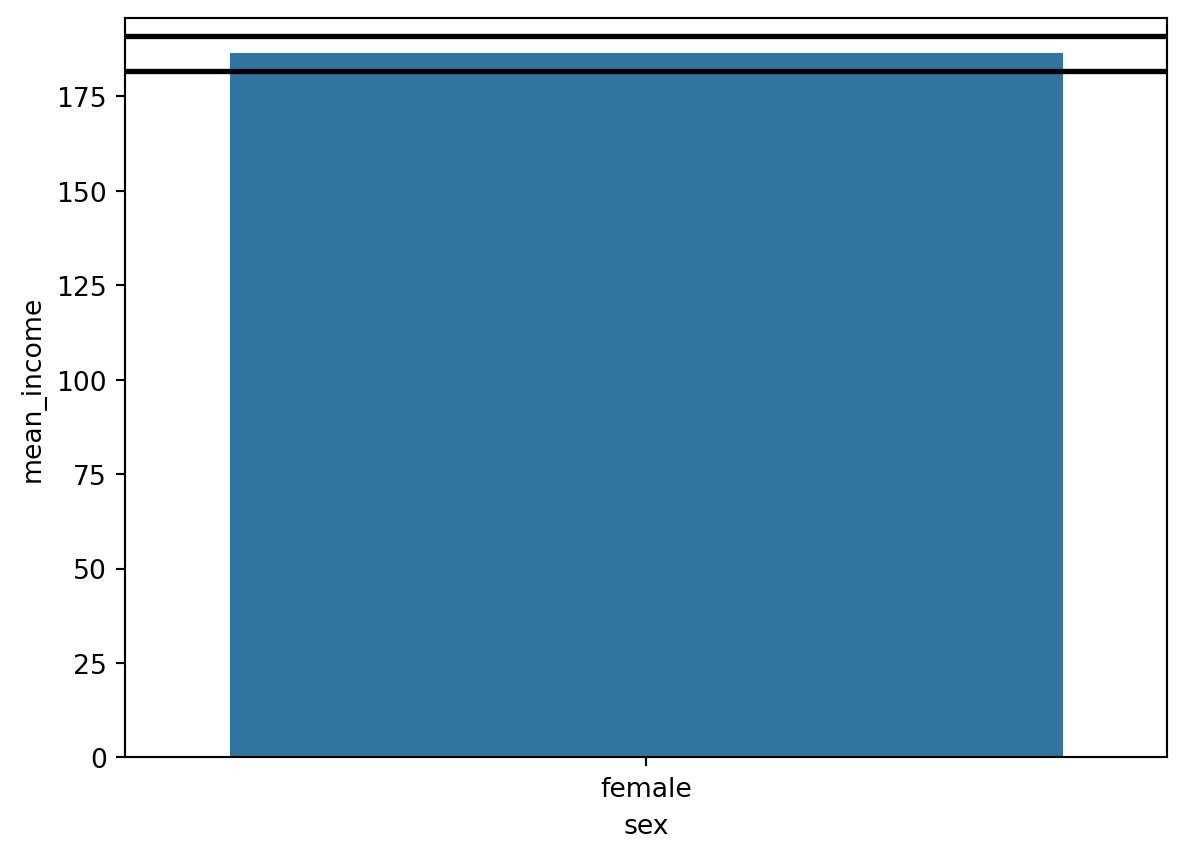
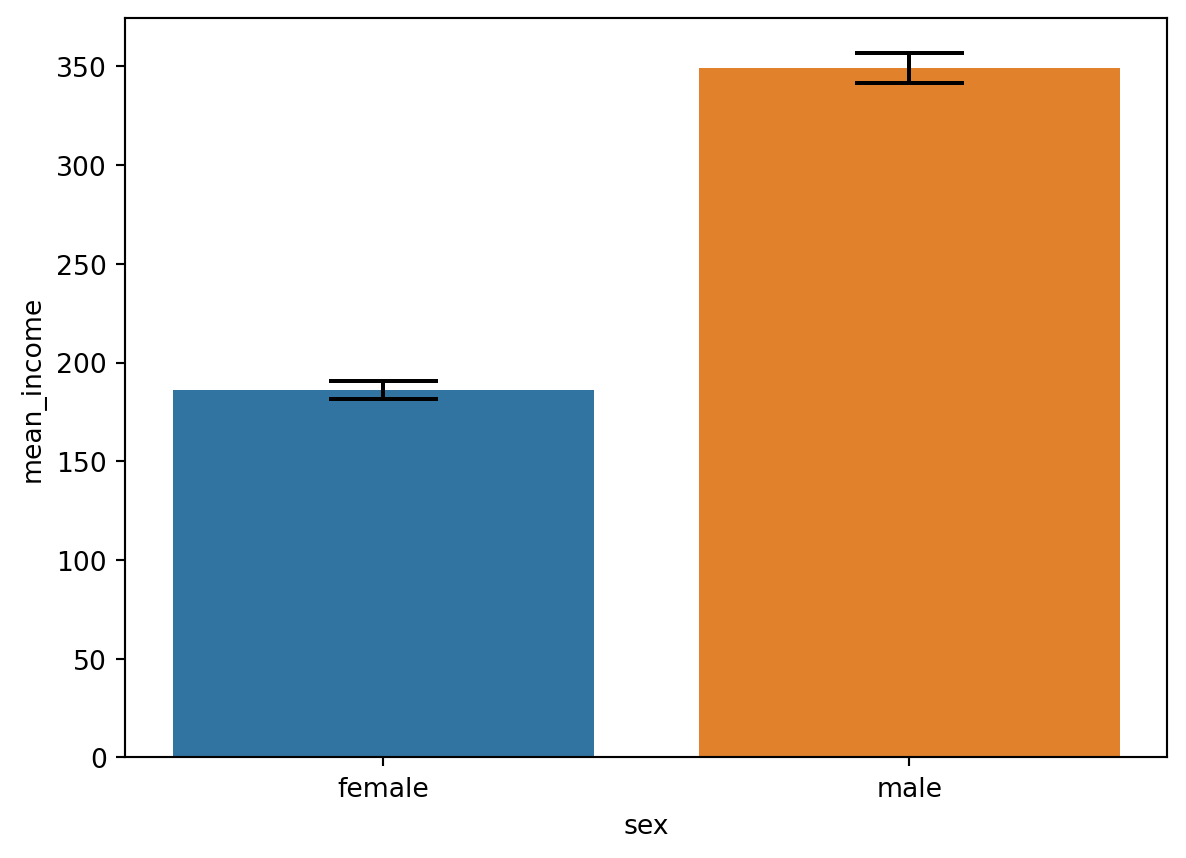
HW6 last

diff --git a/docs/posts/HW6/index.html b/docs/posts/HW6/index.html
@@ -171,7 +171,7 @@ pre > code.sourceCode > span > a:first-child::before { text-decoration: underlin
 
 
 
-<div id="aea0d10e" class="cell" data-execution_count="1">
+<div id="2ce585d9" class="cell" data-execution_count="1">
 <div class="sourceCode cell-code" id="cb1"><pre class="sourceCode python code-with-copy"><code class="sourceCode python"><span id="cb1-1"><a href="#cb1-1" aria-hidden="true" tabindex="-1"></a><span class="im">import</span> pandas <span class="im">as</span> pd</span>
 <span id="cb1-2"><a href="#cb1-2" aria-hidden="true" tabindex="-1"></a><span class="im">import</span> numpy <span class="im">as</span> np</span>
 <span id="cb1-3"><a href="#cb1-3" aria-hidden="true" tabindex="-1"></a><span class="im">import</span> seaborn <span class="im">as</span> sns</span>
@@ -247,7 +247,7 @@ pre > code.sourceCode > span > a:first-child::before { text-decoration: underlin
 </div>
 </div>
 <p>##여자 신뢰구간 검은색 남자 신뢰구간 갈색</p>
-<div id="3f93b2f2" class="cell" data-execution_count="2">
+<div id="c17b5c12" class="cell" data-execution_count="2">
 <div class="sourceCode cell-code" id="cb3"><pre class="sourceCode python code-with-copy"><code class="sourceCode python"><span id="cb3-1"><a href="#cb3-1" aria-hidden="true" tabindex="-1"></a><span class="co">#전체 그래프 그리기</span></span>
 <span id="cb3-2"><a href="#cb3-2" aria-hidden="true" tabindex="-1"></a>welfare.dropna(subset<span class="op">=</span><span class="st">"income"</span>).shape</span>
 <span id="cb3-3"><a href="#cb3-3" aria-hidden="true" tabindex="-1"></a>sex_income<span class="op">=</span>welfare.dropna(subset<span class="op">=</span><span class="st">"income"</span>) <span class="op">\</span></span>
@@ -271,20 +271,22 @@ pre > code.sourceCode > span > a:first-child::before { text-decoration: underlin
 <pre><code>&lt;Figure size 672x480 with 0 Axes&gt;</code></pre>
 </div>
 </div>
-<p>##신뢰구간 선이 겹쳐서 나오는 문제가 발생 남자 여자 그래프 따로 그려서 보여주기</p>
-<div id="91e4e15b" class="cell" data-execution_count="3">
-<div class="sourceCode cell-code" id="cb5"><pre class="sourceCode python code-with-copy"><code class="sourceCode python"><span id="cb5-1"><a href="#cb5-1" aria-hidden="true" tabindex="-1"></a><span class="co">#그리기용 데이터 프레임만들기</span></span>
-<span id="cb5-2"><a href="#cb5-2" aria-hidden="true" tabindex="-1"></a>fe_draw<span class="op">=</span>pd.DataFrame({<span class="st">'sex'</span> :[<span class="st">"female"</span>],</span>
-<span id="cb5-3"><a href="#cb5-3" aria-hidden="true" tabindex="-1"></a>                   <span class="st">'mean_income'</span> : [fe_mean]   })</span>
-<span id="cb5-4"><a href="#cb5-4" aria-hidden="true" tabindex="-1"></a>me_draw<span class="op">=</span>pd.DataFrame({<span class="st">'sex'</span> :[<span class="st">"male"</span>],</span>
-<span id="cb5-5"><a href="#cb5-5" aria-hidden="true" tabindex="-1"></a>                   <span class="st">'mean_income'</span> : [me_mean]   })</span>
-<span id="cb5-6"><a href="#cb5-6" aria-hidden="true" tabindex="-1"></a><span class="co">#그래프 따로 그리기</span></span>
-<span id="cb5-7"><a href="#cb5-7" aria-hidden="true" tabindex="-1"></a><span class="co">#여자 그래프</span></span>
-<span id="cb5-8"><a href="#cb5-8" aria-hidden="true" tabindex="-1"></a>sns.barplot(data<span class="op">=</span>fe_draw,x<span class="op">=</span><span class="st">"sex"</span>,y<span class="op">=</span><span class="st">"mean_income"</span>, hue<span class="op">=</span><span class="st">"sex"</span>)</span>
-<span id="cb5-9"><a href="#cb5-9" aria-hidden="true" tabindex="-1"></a>plt.axhline(y <span class="op">=</span> female_a, color <span class="op">=</span> <span class="st">'black'</span>, linestyle <span class="op">=</span> <span class="st">'-'</span>, linewidth <span class="op">=</span> <span class="dv">2</span>)</span>
-<span id="cb5-10"><a href="#cb5-10" aria-hidden="true" tabindex="-1"></a>plt.axhline(y <span class="op">=</span> female_b, color <span class="op">=</span> <span class="st">'black'</span>, linestyle <span class="op">=</span> <span class="st">'-'</span>, linewidth <span class="op">=</span> <span class="dv">2</span>)</span>
-<span id="cb5-11"><a href="#cb5-11" aria-hidden="true" tabindex="-1"></a>plt.show()</span>
-<span id="cb5-12"><a href="#cb5-12" aria-hidden="true" tabindex="-1"></a>plt.clf()</span></code><button title="Copy to Clipboard" class="code-copy-button"><i class="bi"></i></button></pre></div>
+<div id="f1476b13" class="cell" data-execution_count="3">
+<div class="sourceCode cell-code" id="cb5"><pre class="sourceCode python code-with-copy"><code class="sourceCode python"><span id="cb5-1"><a href="#cb5-1" aria-hidden="true" tabindex="-1"></a>welfare.dropna(subset<span class="op">=</span><span class="st">"income"</span>).shape</span>
+<span id="cb5-2"><a href="#cb5-2" aria-hidden="true" tabindex="-1"></a>sex_income<span class="op">=</span>welfare.dropna(subset<span class="op">=</span><span class="st">"income"</span>) <span class="op">\</span></span>
+<span id="cb5-3"><a href="#cb5-3" aria-hidden="true" tabindex="-1"></a>       .groupby(<span class="st">"sex"</span>,as_index<span class="op">=</span><span class="va">False</span>) <span class="op">\</span></span>
+<span id="cb5-4"><a href="#cb5-4" aria-hidden="true" tabindex="-1"></a>       .agg(mean_income <span class="op">=</span> (<span class="st">"income"</span>,<span class="st">"mean"</span>))</span>
+<span id="cb5-5"><a href="#cb5-5" aria-hidden="true" tabindex="-1"></a>sns.barplot(data<span class="op">=</span>sex_income,x<span class="op">=</span><span class="st">"sex"</span>,y<span class="op">=</span><span class="st">"mean_income"</span>, hue<span class="op">=</span><span class="st">"sex"</span>)</span>
+<span id="cb5-6"><a href="#cb5-6" aria-hidden="true" tabindex="-1"></a>plt.plot([<span class="op">-</span><span class="fl">0.1</span>, <span class="fl">0.1</span>], [female_a, female_a], color<span class="op">=</span><span class="st">'black'</span>)</span>
+<span id="cb5-7"><a href="#cb5-7" aria-hidden="true" tabindex="-1"></a>plt.plot([<span class="op">-</span><span class="fl">0.1</span>, <span class="fl">0.1</span>], [female_b, female_b], color<span class="op">=</span><span class="st">'black'</span>)</span>
+<span id="cb5-8"><a href="#cb5-8" aria-hidden="true" tabindex="-1"></a></span>
+<span id="cb5-9"><a href="#cb5-9" aria-hidden="true" tabindex="-1"></a>plt.plot([<span class="dv">0</span>, <span class="dv">0</span>], [female_a, female_b], color<span class="op">=</span><span class="st">'black'</span>)</span>
+<span id="cb5-10"><a href="#cb5-10" aria-hidden="true" tabindex="-1"></a>plt.plot([<span class="dv">1</span>, <span class="dv">1</span>], [male_a, male_b], color<span class="op">=</span><span class="st">'black'</span>)</span>
+<span id="cb5-11"><a href="#cb5-11" aria-hidden="true" tabindex="-1"></a></span>
+<span id="cb5-12"><a href="#cb5-12" aria-hidden="true" tabindex="-1"></a>plt.plot([<span class="fl">0.9</span>, <span class="fl">1.1</span>], [male_a, male_a], color<span class="op">=</span><span class="st">'black'</span>)</span>
+<span id="cb5-13"><a href="#cb5-13" aria-hidden="true" tabindex="-1"></a>plt.plot([<span class="fl">0.9</span>, <span class="fl">1.1</span>], [male_b, male_b], color<span class="op">=</span><span class="st">'black'</span>)</span>
+<span id="cb5-14"><a href="#cb5-14" aria-hidden="true" tabindex="-1"></a>plt.show()</span>
+<span id="cb5-15"><a href="#cb5-15" aria-hidden="true" tabindex="-1"></a>plt.clf()</span></code><button title="Copy to Clipboard" class="code-copy-button"><i class="bi"></i></button></pre></div>
 <div class="cell-output cell-output-display">
 <div>
 <figure class="figure">
@@ -296,17 +298,42 @@ pre > code.sourceCode > span > a:first-child::before { text-decoration: underlin
 <pre><code>&lt;Figure size 672x480 with 0 Axes&gt;</code></pre>
 </div>
 </div>
-<div id="edce843f" class="cell" data-execution_count="4">
-<div class="sourceCode cell-code" id="cb7"><pre class="sourceCode python code-with-copy"><code class="sourceCode python"><span id="cb7-1"><a href="#cb7-1" aria-hidden="true" tabindex="-1"></a><span class="co">#남자 그래프</span></span>
-<span id="cb7-2"><a href="#cb7-2" aria-hidden="true" tabindex="-1"></a>sns.barplot(data<span class="op">=</span>me_draw,x<span class="op">=</span><span class="st">"sex"</span>,y<span class="op">=</span><span class="st">"mean_income"</span>, hue<span class="op">=</span><span class="st">"sex"</span>)</span>
-<span id="cb7-3"><a href="#cb7-3" aria-hidden="true" tabindex="-1"></a>plt.axhline(y <span class="op">=</span> male_a, color <span class="op">=</span> <span class="st">'black'</span>, linestyle <span class="op">=</span> <span class="st">'-'</span>, linewidth <span class="op">=</span> <span class="dv">2</span>)</span>
-<span id="cb7-4"><a href="#cb7-4" aria-hidden="true" tabindex="-1"></a>plt.axhline(y <span class="op">=</span> male_b, color <span class="op">=</span> <span class="st">'black'</span>, linestyle <span class="op">=</span> <span class="st">'-'</span>, linewidth <span class="op">=</span> <span class="dv">2</span>)</span>
-<span id="cb7-5"><a href="#cb7-5" aria-hidden="true" tabindex="-1"></a>plt.show()</span>
-<span id="cb7-6"><a href="#cb7-6" aria-hidden="true" tabindex="-1"></a>plt.clf()</span></code><button title="Copy to Clipboard" class="code-copy-button"><i class="bi"></i></button></pre></div>
+<p>##신뢰구간 선이 겹쳐서 나오는 문제가 발생 남자 여자 그래프 따로 그려서 보여주기</p>
+<div id="ff927f72" class="cell" data-execution_count="4">
+<div class="sourceCode cell-code" id="cb7"><pre class="sourceCode python code-with-copy"><code class="sourceCode python"><span id="cb7-1"><a href="#cb7-1" aria-hidden="true" tabindex="-1"></a><span class="co">#그리기용 데이터 프레임만들기</span></span>
+<span id="cb7-2"><a href="#cb7-2" aria-hidden="true" tabindex="-1"></a>fe_draw<span class="op">=</span>pd.DataFrame({<span class="st">'sex'</span> :[<span class="st">"female"</span>],</span>
+<span id="cb7-3"><a href="#cb7-3" aria-hidden="true" tabindex="-1"></a>                   <span class="st">'mean_income'</span> : [fe_mean]   })</span>
+<span id="cb7-4"><a href="#cb7-4" aria-hidden="true" tabindex="-1"></a>me_draw<span class="op">=</span>pd.DataFrame({<span class="st">'sex'</span> :[<span class="st">"male"</span>],</span>
+<span id="cb7-5"><a href="#cb7-5" aria-hidden="true" tabindex="-1"></a>                   <span class="st">'mean_income'</span> : [me_mean]   })</span>
+<span id="cb7-6"><a href="#cb7-6" aria-hidden="true" tabindex="-1"></a><span class="co">#그래프 따로 그리기</span></span>
+<span id="cb7-7"><a href="#cb7-7" aria-hidden="true" tabindex="-1"></a><span class="co">#여자 그래프</span></span>
+<span id="cb7-8"><a href="#cb7-8" aria-hidden="true" tabindex="-1"></a>sns.barplot(data<span class="op">=</span>fe_draw,x<span class="op">=</span><span class="st">"sex"</span>,y<span class="op">=</span><span class="st">"mean_income"</span>, hue<span class="op">=</span><span class="st">"sex"</span>)</span>
+<span id="cb7-9"><a href="#cb7-9" aria-hidden="true" tabindex="-1"></a>plt.axhline(y <span class="op">=</span> female_a, color <span class="op">=</span> <span class="st">'black'</span>, linestyle <span class="op">=</span> <span class="st">'-'</span>, linewidth <span class="op">=</span> <span class="dv">2</span>)</span>
+<span id="cb7-10"><a href="#cb7-10" aria-hidden="true" tabindex="-1"></a>plt.axhline(y <span class="op">=</span> female_b, color <span class="op">=</span> <span class="st">'black'</span>, linestyle <span class="op">=</span> <span class="st">'-'</span>, linewidth <span class="op">=</span> <span class="dv">2</span>)</span>
+<span id="cb7-11"><a href="#cb7-11" aria-hidden="true" tabindex="-1"></a>plt.show()</span>
+<span id="cb7-12"><a href="#cb7-12" aria-hidden="true" tabindex="-1"></a>plt.clf()</span></code><button title="Copy to Clipboard" class="code-copy-button"><i class="bi"></i></button></pre></div>
 <div class="cell-output cell-output-display">
 <div>
 <figure class="figure">
 <p><img src="index_files/figure-html/cell-5-output-1.png" width="593" height="429" class="figure-img"></p>
+</figure>
+</div>
+</div>
+<div class="cell-output cell-output-display">
+<pre><code>&lt;Figure size 672x480 with 0 Axes&gt;</code></pre>
+</div>
+</div>
+<div id="ba72fb68" class="cell" data-execution_count="5">
+<div class="sourceCode cell-code" id="cb9"><pre class="sourceCode python code-with-copy"><code class="sourceCode python"><span id="cb9-1"><a href="#cb9-1" aria-hidden="true" tabindex="-1"></a><span class="co">#남자 그래프</span></span>
+<span id="cb9-2"><a href="#cb9-2" aria-hidden="true" tabindex="-1"></a>sns.barplot(data<span class="op">=</span>me_draw,x<span class="op">=</span><span class="st">"sex"</span>,y<span class="op">=</span><span class="st">"mean_income"</span>, hue<span class="op">=</span><span class="st">"sex"</span>)</span>
+<span id="cb9-3"><a href="#cb9-3" aria-hidden="true" tabindex="-1"></a>plt.axhline(y <span class="op">=</span> male_a, color <span class="op">=</span> <span class="st">'black'</span>, linestyle <span class="op">=</span> <span class="st">'-'</span>, linewidth <span class="op">=</span> <span class="dv">2</span>)</span>
+<span id="cb9-4"><a href="#cb9-4" aria-hidden="true" tabindex="-1"></a>plt.axhline(y <span class="op">=</span> male_b, color <span class="op">=</span> <span class="st">'black'</span>, linestyle <span class="op">=</span> <span class="st">'-'</span>, linewidth <span class="op">=</span> <span class="dv">2</span>)</span>
+<span id="cb9-5"><a href="#cb9-5" aria-hidden="true" tabindex="-1"></a>plt.show()</span>
+<span id="cb9-6"><a href="#cb9-6" aria-hidden="true" tabindex="-1"></a>plt.clf()</span></code><button title="Copy to Clipboard" class="code-copy-button"><i class="bi"></i></button></pre></div>
+<div class="cell-output cell-output-display">
+<div>
+<figure class="figure">
+<p><img src="index_files/figure-html/cell-6-output-1.png" width="593" height="429" class="figure-img"></p>
 </figure>
 </div>
 </div>

diff --git a/docs/blog.html b/docs/blog.html
@@ -268,7 +268,7 @@ window.Quarto = {
 </a>
 </div>
 </div>
-<div class="quarto-post image-right" data-index="3" data-listing-file-modified-sort="1722342077229" data-listing-reading-time-sort="3" data-listing-word-count-sort="531">
+<div class="quarto-post image-right" data-index="3" data-listing-file-modified-sort="1722385946108" data-listing-reading-time-sort="3" data-listing-word-count-sort="574">
 <div class="thumbnail">
 <p><a href="./posts/HW6/index.html" class="no-external"></a></p><a href="./posts/HW6/index.html" class="no-external">
 <p class="card-img-top"><img src="posts\HW6\index_files\figure-html\cell-3-output-1.png"  class="thumbnail-image card-img"/></p>
